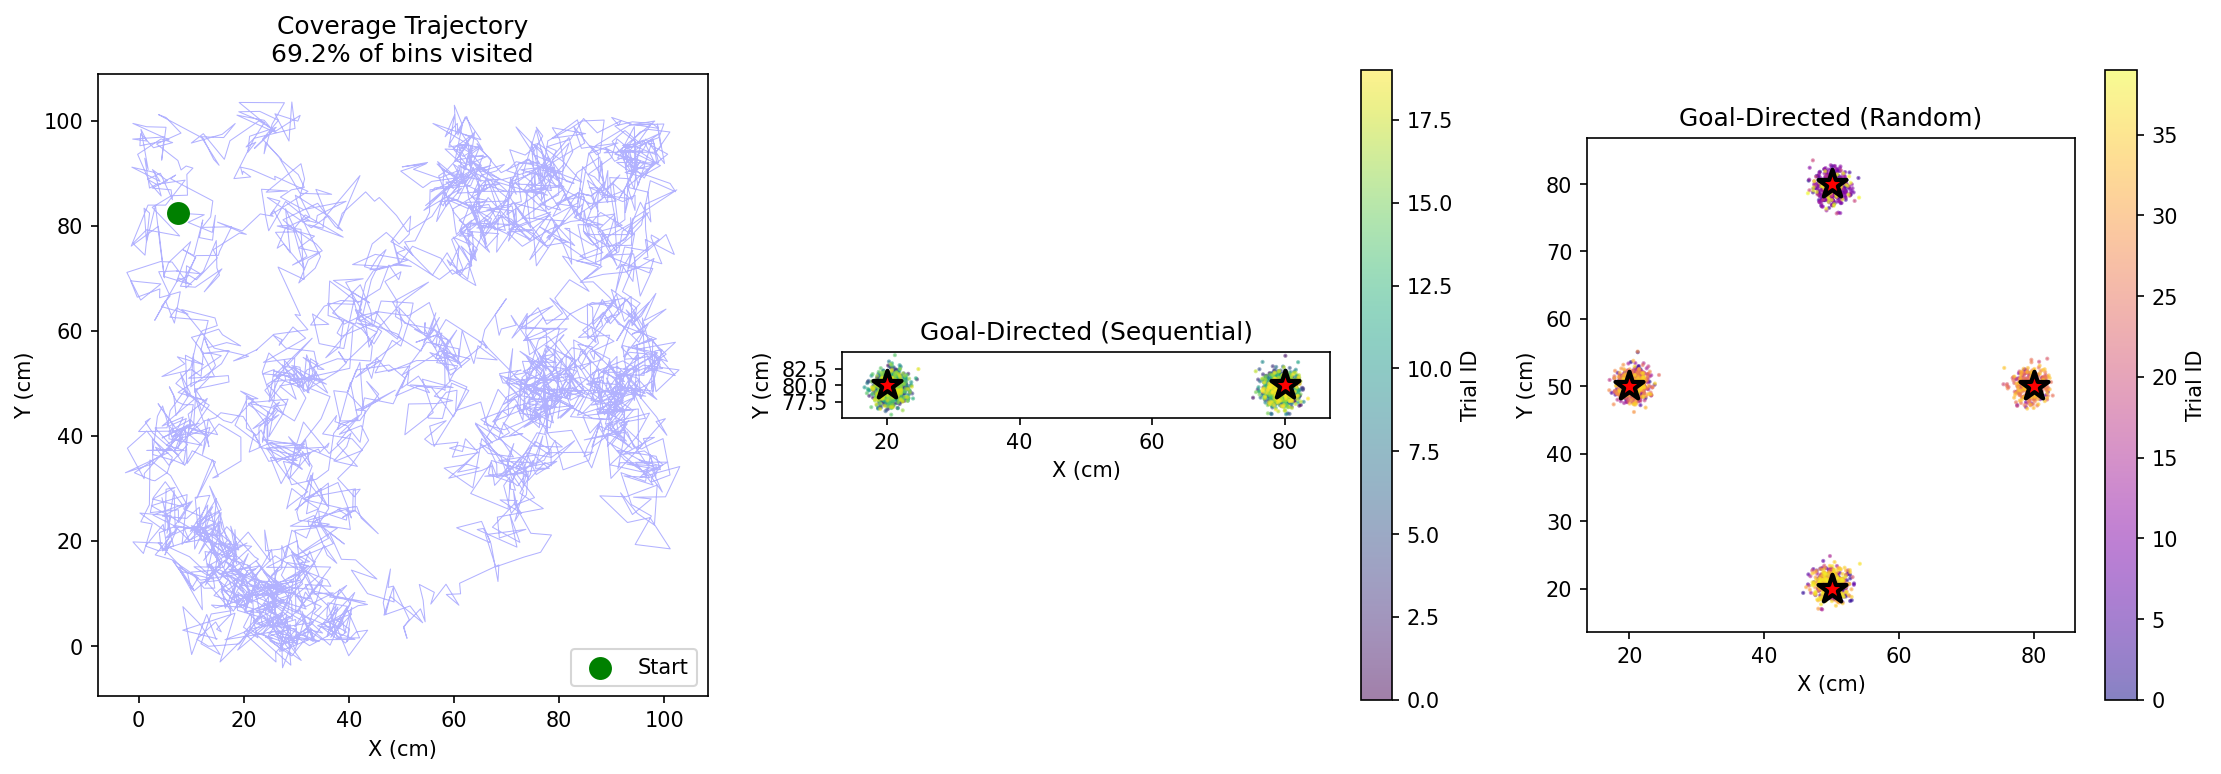
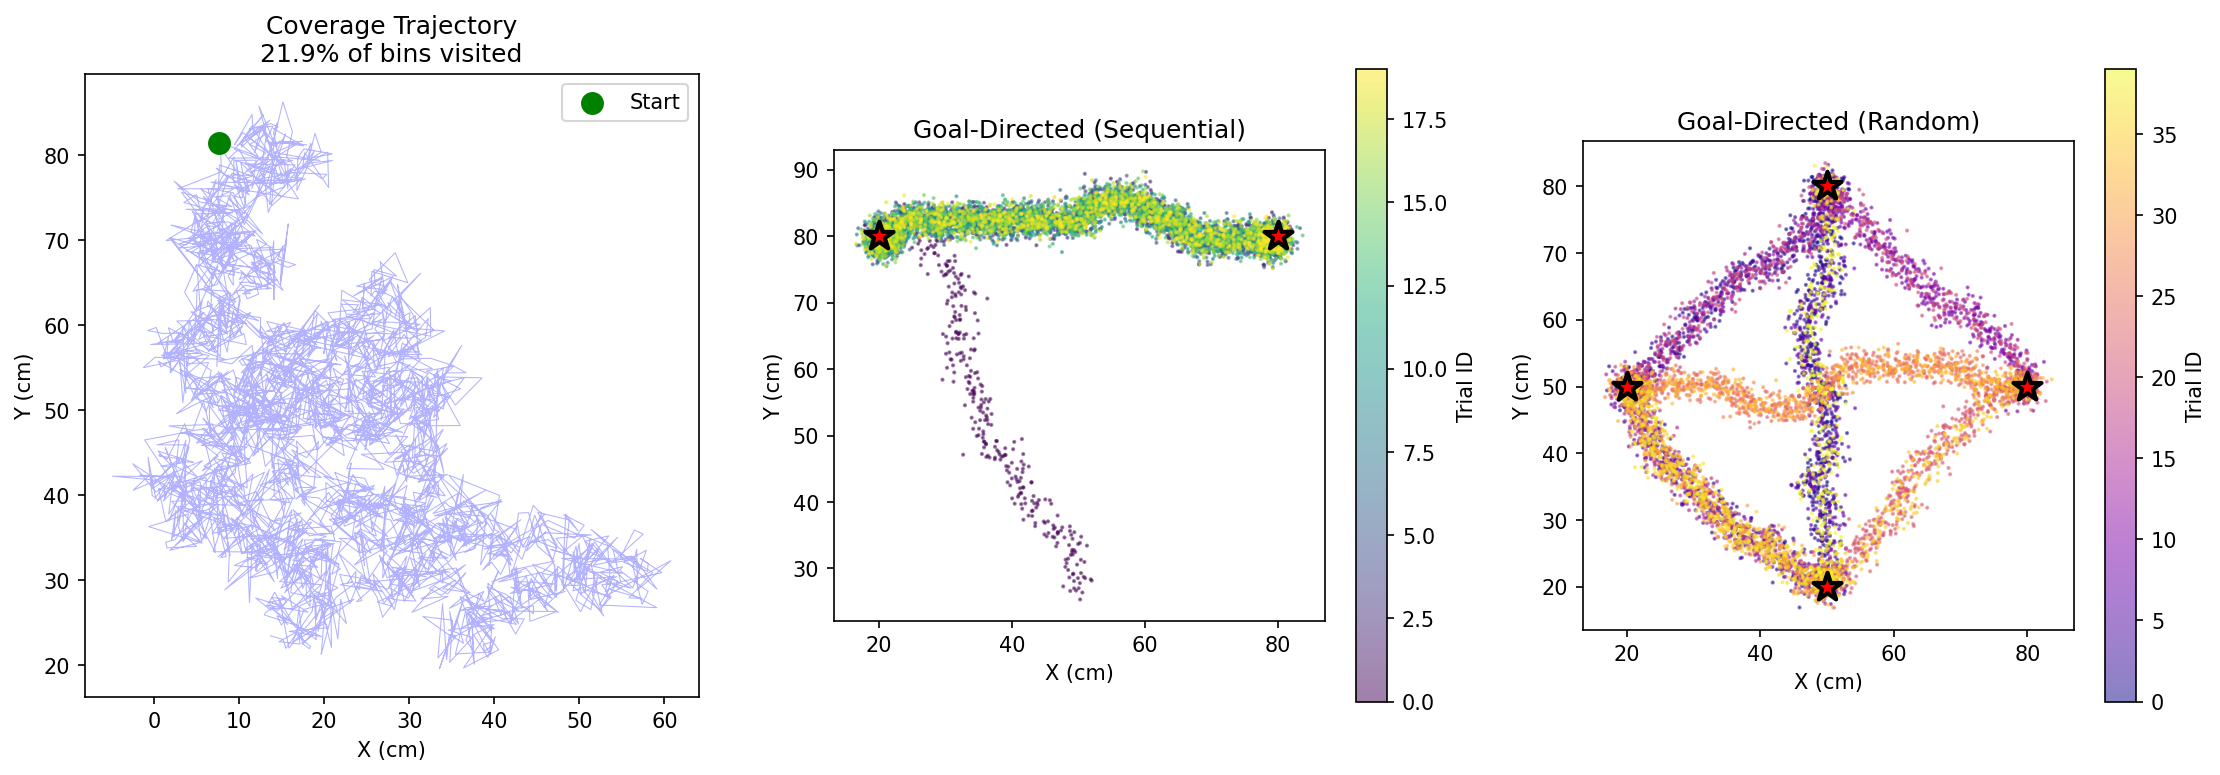
fix: goal-directed trajectories now move between goals
Fixed critical bug where trajectories only stayed at goals instead of
moving between them.

Root cause:
- env.distance_between() returns inf for adjacent graph neighbors
- This caused safety check 'if not np.isfinite(edge_distance)' to skip
  all movement segments
- Only pause periods at goals were recorded

Solution:
- Use Euclidean distance directly from bin_centers
- Removed dependency on buggy distance_between() method
- Now correctly interpolates positions along paths

Results:
- T-maze: 53.8% of time spent moving (was 0%)
- Plus maze: Beautiful diamond pattern between 4 arms
- Coverage: More realistic (21.9% in 30s with actual movement)

Visualization now clearly shows:
- Back-and-forth movement in sequential trials
- Random exploration patterns between multiple goals
- Smooth paths using shortest_path() routing

diff --git a/trajectory_implementations.py b/trajectory_implementations.py
@@ -127,11 +127,14 @@ def simulate_trajectory_coverage(
         # Choose next bin
         next_bin = np.random.choice(neighbors, p=weights)
 
-        # Compute movement duration
-        edge_distance = env.distance_between(current_bin, next_bin)
+        # Compute movement duration (use Euclidean distance from bin centers)
+        # Note: env.distance_between() has a bug and returns inf for adjacent bins
+        pos_current = env.bin_centers[current_bin]
+        pos_next = env.bin_centers[next_bin]
+        edge_distance = np.linalg.norm(pos_next - pos_current)
 
-        # Handle disconnected bins (shouldn't happen with neighbors, but be safe)
-        if not np.isfinite(edge_distance):
+        # Handle invalid distances (shouldn't happen, but be safe)
+        if edge_distance <= 0:
             trajectory_bins.append(next_bin)
             samples_generated += 1
             current_bin = next_bin
@@ -359,10 +362,17 @@ def simulate_trajectory_goal_directed(
     all_trial_ids = []
 
     current_time = 0.0
-    current_bin = goal_bins[sequence[0]]  # Start at first goal
+
+    # Start at center of environment (not at a goal)
+    center_idx = env.n_bins // 2
+    current_bin = center_idx
 
     for trial_idx, goal_idx in enumerate(sequence):
         goal_bin = goal_bins[goal_idx]
+
+        # Skip if already at goal (avoids zero-length trials)
+        if current_bin == goal_bin:
+            continue
 
         # Find shortest path
         path = env.shortest_path(current_bin, goal_bin)
@@ -376,21 +386,20 @@ def simulate_trajectory_goal_directed(
         for i in range(len(path) - 1):
             bin_a, bin_b = path[i], path[i + 1]
 
-            # Get edge distance and duration
-            edge_distance = env.distance_between(bin_a, bin_b)
+            # Get edge distance (use Euclidean from bin centers)
+            # Note: env.distance_between() has a bug and returns inf for adjacent bins
+            pos_a = env.bin_centers[bin_a]
+            pos_b = env.bin_centers[bin_b]
+            edge_distance = np.linalg.norm(pos_b - pos_a)
 
             # Skip if edge is invalid
-            if not np.isfinite(edge_distance) or edge_distance <= 0:
+            if edge_distance <= 0:
                 continue
 
             move_duration = edge_distance / speed
             n_move_samples = max(1, int(move_duration * sampling_frequency))
 
-            # Interpolate positions along edge
-            pos_a = env.bin_centers[bin_a]
-            pos_b = env.bin_centers[bin_b]
-
-            # Linear interpolation
+            # Linear interpolation along edge
             alphas = np.linspace(0, 1, n_move_samples, endpoint=False)
             segment_positions = pos_a + alphas[:, np.newaxis] * (pos_b - pos_a)
 
